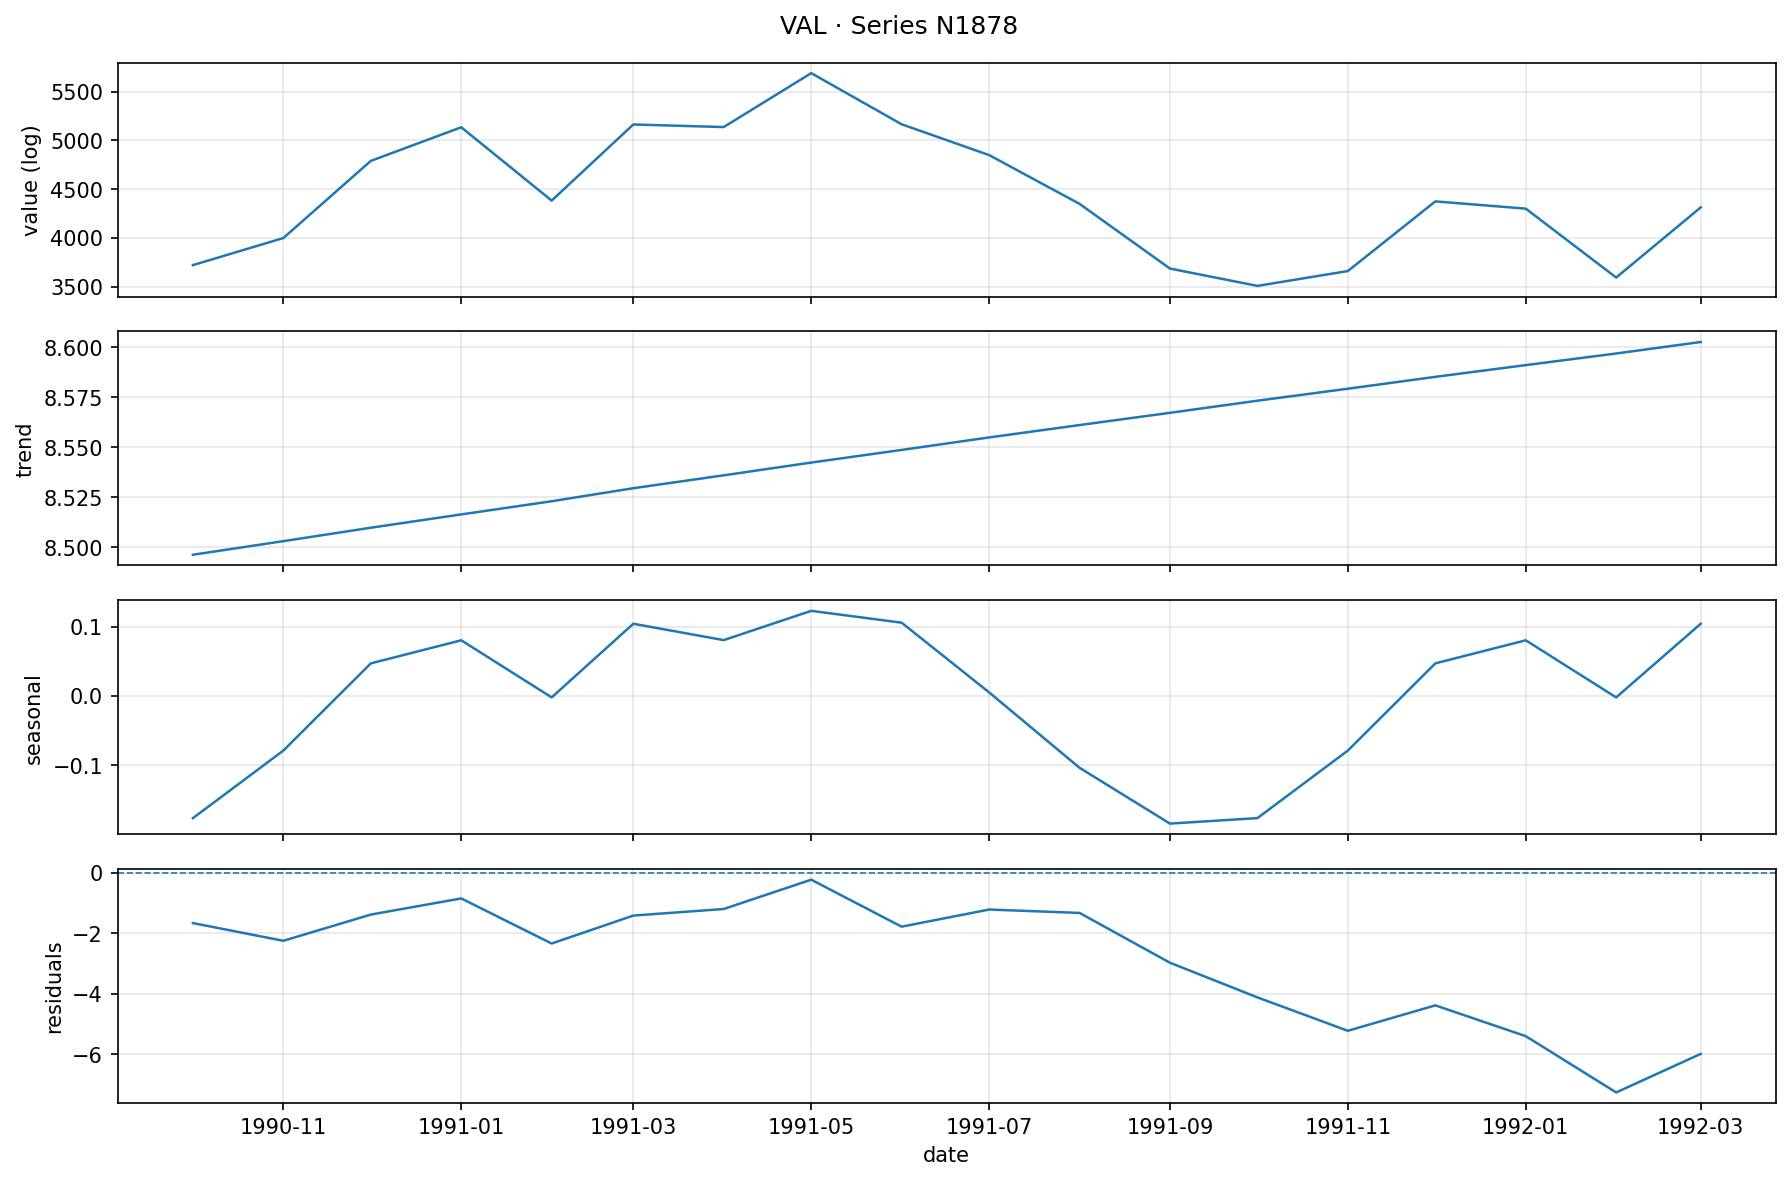
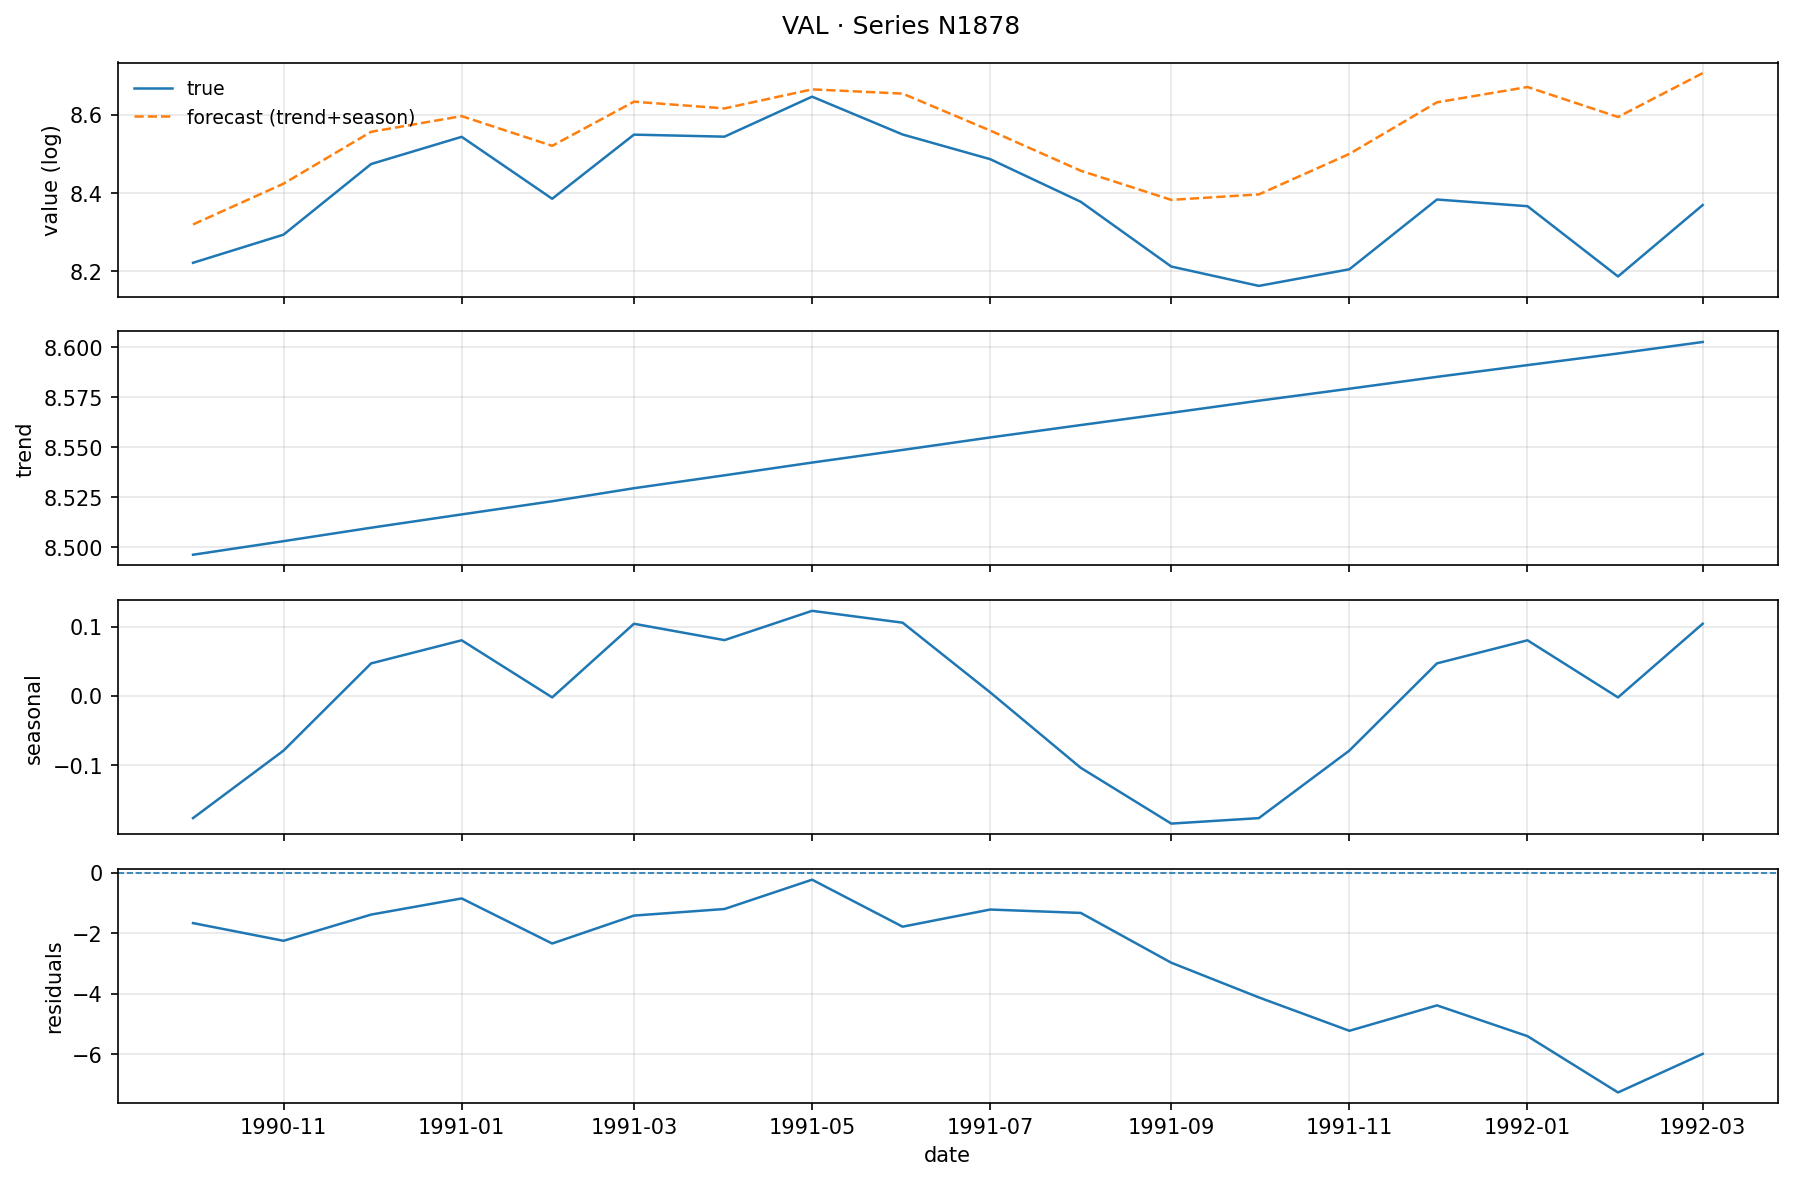
modified the plots in order to be observed the residuals

diff --git a/src/preprocess/plot_decomposition.py b/src/preprocess/plot_decomposition.py
@@ -1,6 +1,5 @@
 # src/plots/decomp_plotter.py
 from __future__ import annotations
-import os
 import re
 from pathlib import Path
 from typing import Iterable, Optional, Tuple
@@ -12,23 +11,23 @@ import matplotlib.pyplot as plt
 
 class DecompPlotter:
     """
-    Plot decomposition panels (value, trend, seasonal, residuals) for TRAIN/VAL/TEST.
-    - Expects per-split DataFrames with columns:
-        TRAIN: ['Series','date','value','trend','seasonal','residuals']
-        VAL/TEST: either ['Series','date','value','trend','seasonal','residuals']
-                  or      ['Series','date','value','trend_fc','seasonal','residuals']
-    - Saves one PNG per Series into:
-        src/results/STL           (method_label == 'STL')
-        src/results/additive      (method_label == 'stats_decompose_additive')
-        src/results/multiplicative(method_label == 'stats_decompose_multiplicative')
-      with subfolders train/, val/, test/
+    Plot decomposition panels (value, trend, seasonal, residuals) for TRAIN/VAL/TEST,
+    and overlay the continuation/reconstruction:
+      - STL/additive:   y_hat_log = trend(or trend_fc) + seasonal,  y_hat_lin = exp(y_hat_log)
+      - Multiplicative: y_hat     = trend(or trend_fc) * seasonal
+
+    For VAL/TEST this is the forecasted continuation; for TRAIN it's a reconstruction.
+
+    Expected columns:
+      TRAIN:    ['Series','date','value','trend','seasonal','residuals']
+      VAL/TEST: ['Series','date','value','trend_fc','seasonal','residuals'] (or 'trend' already)
     """
 
     def __init__(
         self,
         out_root: str = "src/results",
         dpi: int = 150,
-        figsize: Tuple[int, int] = (12, 8)
+        figsize: Tuple[int, int] = (12, 8),
     ):
         self.out_root = Path(out_root)
         self.dpi = dpi
@@ -53,14 +52,11 @@ class DecompPlotter:
         if test_df is not None:
             (base / "test").mkdir(parents=True, exist_ok=True)
 
-        # Decide which IDs to plot (intersection across provided splits)
         ids = self._choose_series_ids(train_df, val_df, test_df, series_ids, max_series)
-
         if len(ids) == 0:
             print("[DecompPlotter] No series IDs to plot.")
             return
 
-        # Plot each split
         self._plot_split(train_df, ids, base / "train", split_name="train", log_domain=log_domain)
         if val_df is not None:
             self._plot_split(val_df, ids, base / "val", split_name="val", log_domain=log_domain)
@@ -72,7 +68,6 @@ class DecompPlotter:
     # ---------- internals ----------
 
     def _method_dir(self, method_label: str) -> Path:
-        # Map to folder names
         if method_label == "STL":
             sub = "STL"
         elif method_label == "stats_decompose_additive":
@@ -80,7 +75,6 @@ class DecompPlotter:
         elif method_label == "stats_decompose_multiplicative":
             sub = "multiplicative"
         else:
-            # fallback: use label itself
             sub = re.sub(r"[^A-Za-z0-9_\-]+", "_", str(method_label)).strip("_")
         return self.out_root / sub
 
@@ -100,7 +94,6 @@ class DecompPlotter:
         if series_ids is not None:
             chosen = list(dict.fromkeys(map(str, series_ids)))
         else:
-            # start from TRAIN, then keep only those present in other splits (if supplied)
             chosen_set = ids_in(train_df)
             if val_df is not None:
                 chosen_set &= ids_in(val_df)
@@ -122,6 +115,14 @@ class DecompPlotter:
             return "trend_fc"
         raise KeyError("No 'trend' or 'trend_fc' column found for plotting.")
 
+    def _rmse(self, a: pd.Series | np.ndarray, b: pd.Series | np.ndarray) -> float:
+        a = np.asarray(a, dtype=float)
+        b = np.asarray(b, dtype=float)
+        m = np.isfinite(a) & np.isfinite(b)
+        if not m.any():
+            return np.inf
+        return float(np.sqrt(np.mean((a[m] - b[m]) ** 2)))
+
     def _plot_split(
         self,
         df: pd.DataFrame,
@@ -130,7 +131,6 @@ class DecompPlotter:
         split_name: str,
         log_domain: bool,
     ) -> None:
-        # basic checks
         needed = {"Series", "date", "seasonal", "residuals"}
         missing = needed - set(df.columns)
         if missing:
@@ -138,7 +138,6 @@ class DecompPlotter:
 
         trend_col = self._pick_trend_column(df)
 
-        # ensure datetime
         work = df.copy()
         work["date"] = pd.to_datetime(work["date"], errors="coerce")
         work = work.dropna(subset=["Series", "date"])
@@ -148,32 +147,86 @@ class DecompPlotter:
             if sub.empty:
                 continue
 
-            # Drop rows with all-NaN on the plotted components to avoid blank panels
-            # (value may be missing in some edge cases; handle gracefully)
             have_value = "value" in sub.columns
-            cols = ["seasonal", trend_col, "residuals"] + (["value"] if have_value else [])
-            valid_mask = ~sub[cols].isna().all(axis=1)
+
+            # --- Continuation candidates ---
+            # For log-domain methods we can reconstruct in log (trend+seasonal) or convert to linear (exp).
+            if log_domain:
+                yhat_log = pd.to_numeric(sub[trend_col], errors="coerce") + pd.to_numeric(sub["seasonal"], errors="coerce")
+                with np.errstate(over="ignore", invalid="ignore"):
+                    yhat_lin = np.exp(yhat_log)
+            else:
+                tr = pd.to_numeric(sub[trend_col], errors="coerce")
+                se = pd.to_numeric(sub["seasonal"], errors="coerce")
+                yhat_lin = tr * se
+                yhat_log = None  # not used
+
+            # --- Choose plotting domain for Panel 1 automatically to avoid double-logging on TRAIN ---
+            if have_value:
+                v = pd.to_numeric(sub["value"], errors="coerce")
+
+                if log_domain:
+                    # Compare log(v) vs yhat_log  *and*  v vs yhat_lin; choose smaller RMSE.
+                    with np.errstate(divide="ignore", invalid="ignore"):
+                        v_log = np.log(v)
+                    rmse_log = self._rmse(v_log, yhat_log)
+                    rmse_lin = self._rmse(v, yhat_lin)
+
+                    if rmse_log <= rmse_lin:
+                        y_true = v_log
+                        y_hat = yhat_log
+                        val_label = "value (log)"
+                    else:
+                        y_true = v
+                        y_hat = yhat_lin
+                        val_label = "value"
+                else:
+                    y_true = v
+                    y_hat = yhat_lin
+                    val_label = "value"
+            else:
+                # No ground-truth values available; show forecast in a natural viewing domain.
+                if log_domain:
+                    y_true = None
+                    y_hat = yhat_lin  # linear scale is more interpretable
+                    val_label = "value"
+                else:
+                    y_true = None
+                    y_hat = yhat_lin
+                    val_label = "value"
+
+            # Drop rows with all-NaN across plotted components
+            cols_to_check = ["seasonal", trend_col, "residuals"]
+            if have_value:
+                cols_to_check.append("value")
+            valid_mask = ~sub[cols_to_check].isna().all(axis=1)
             sub = sub.loc[valid_mask]
+            y_hat = pd.Series(y_hat, index=sub.index).loc[valid_mask]
+            if y_true is not None:
+                y_true = pd.Series(y_true, index=sub.index).loc[valid_mask]
+
             if sub.empty:
                 continue
 
-            # Build figure
+            # ---- Figure ----
             fig, axes = plt.subplots(nrows=4, ncols=1, figsize=self.figsize, sharex=True)
             ax_idx = 0
 
-            # Panel 1: Original value (if present)
-            if have_value:
-                axes[ax_idx].plot(sub["date"], sub["value"], lw=1.2)
-                axes[ax_idx].set_ylabel("value" + (" (log)" if log_domain else ""))
-                axes[ax_idx].grid(True, alpha=0.3)
-                ax_idx += 1
+            # Panel 1: True vs Forecasted continuation/reconstruction
+            if y_true is not None:
+                axes[ax_idx].plot(sub["date"], y_true, lw=1.2, label="true")
+                axes[ax_idx].plot(sub["date"], y_hat, lw=1.2, ls="--",
+                                  label=("forecast (trend+season)" if log_domain else "forecast (trend×season)"))
+                axes[ax_idx].legend(loc="upper left", fontsize=9, frameon=False)
             else:
-                # if no original value, leave an empty panel with message
-                axes[ax_idx].text(0.5, 0.5, "value not provided", ha="center", va="center", transform=axes[ax_idx].transAxes)
-                axes[ax_idx].set_axis_off()
-                ax_idx += 1
+                axes[ax_idx].plot(sub["date"], y_hat, lw=1.2, ls="--",
+                                  label=("forecast (trend+season)" if log_domain else "forecast (trend×season)"))
+                axes[ax_idx].legend(loc="upper left", fontsize=9, frameon=False)
+            axes[ax_idx].set_ylabel(val_label)
+            axes[ax_idx].grid(True, alpha=0.3)
+            ax_idx += 1
 
-            # Panel 2: Trend
+            # Panel 2: Trend / Trend forecast
             axes[ax_idx].plot(sub["date"], sub[trend_col], lw=1.2)
             axes[ax_idx].set_ylabel("trend" if trend_col == "trend" else "trend_fc")
             axes[ax_idx].grid(True, alpha=0.3)
@@ -195,7 +248,6 @@ class DecompPlotter:
             axes[-1].set_xlabel("date")
             fig.tight_layout()
 
-            # save
             out_path = out_dir / f"{split_name}_{self._safe_name(sid)}.png"
             fig.savefig(out_path, dpi=self.dpi, bbox_inches="tight")
             plt.close(fig)

diff --git a/src/preprocess/holdout_decomposer_per_id.py b/src/preprocess/holdout_decomposer_per_id.py
@@ -1,7 +1,7 @@
 import pandas as pd
 import numpy as np
 from typing import Literal
-from statsmodels.tsa.holtwinters import ExponentialSmoothing 
+from statsmodels.tsa.holtwinters import ExponentialSmoothing
 
 Method = Literal["STL", "stats_decompose_additive", "stats_decompose_multiplicative"]
 
@@ -16,7 +16,6 @@ class HoldoutDecomposer:
         self.train_decomp["date"] = pd.to_datetime(self.train_decomp["date"], errors="coerce")
         self.train_decomp = self.train_decomp.dropna(subset=["Series", "date"])
 
-        # build per-ID seasonal template once
         self._seas_tpl = self._build_seasonal_template(self.train_decomp, method=self.method, period=self.period)
 
     @staticmethod
@@ -49,12 +48,17 @@ class HoldoutDecomposer:
             pivot = pivot.subtract(pivot.mean(axis=1), axis=0)
         return pivot.stack().rename("season_tpl").reset_index()
 
-    def _forecast_trend_for(self, target_df: pd.DataFrame) -> pd.DataFrame:
+    def _forecast_trend_for(self, target_df: pd.DataFrame,
+                            offset_by_id: dict[str, int] | None = None) -> pd.DataFrame:
         out = []
         for sid, tr in self.train_decomp.groupby("Series", sort=False):
             horizon = int((target_df["Series"] == sid).sum())
             if horizon == 0:
                 continue
+
+            # number of steps between end of TRAIN and the first target date for this ID
+            offs = 0 if offset_by_id is None else int(offset_by_id.get(sid, 0))
+
             y_trend = pd.to_numeric(tr["trend"], errors="coerce").dropna().to_numpy()
             if y_trend.size == 0:
                 fc = np.zeros(horizon)
@@ -62,13 +66,17 @@ class HoldoutDecomposer:
                 try:
                     model = ExponentialSmoothing(y_trend, trend="add", seasonal=None, damped_trend=True)
                     fit = model.fit(optimized=True)
-                    fc = fit.forecast(horizon)
+                    fc_all = fit.forecast(offs + horizon)   # forecast far enough
+                    fc = fc_all[offs:]                      # drop the offset part to align with target dates
                 except Exception:
                     fc = np.full(horizon, float(y_trend[-1]))
+
             if self.method == "stats_decompose_multiplicative":
                 fc = np.maximum(fc, 1e-12)
+
             t_dates = target_df.loc[target_df["Series"] == sid, "date"].values
             out.append(pd.DataFrame({"Series": sid, "date": t_dates, "trend_fc": fc}))
+
         return pd.concat(out, ignore_index=True) if out else pd.DataFrame(columns=["Series", "date", "trend_fc"])
 
     def _apply_per_id_z(self, residuals_df: pd.DataFrame) -> pd.DataFrame:
@@ -79,13 +87,15 @@ class HoldoutDecomposer:
         out.loc[valid, "residuals"] = (out.loc[valid, "residuals"] - out.loc[valid, "mu"]) / out.loc[valid, "sigma"]
         return out.drop(columns=["mu", "sigma"])
 
-    def transform(self, target_df: pd.DataFrame, harmonics: int = 3):
+    def transform(self, target_df: pd.DataFrame, harmonics: int = 3,
+                  offset_by_id: dict[str, int] | None = None):
         df = target_df.copy()
         df["date"] = pd.to_datetime(df["date"], errors="coerce")
         df = df.dropna(subset=["Series", "date", "value"]).sort_values(["Series", "date"])
         df["phase"] = self._phase(df["date"], self.period)
-        df = df.merge(self._seas_tpl, on=["Series", "phase"], how="left")          # per-ID seasonal
-        df = df.merge(self._forecast_trend_for(df), on=["Series", "date"], how="left")  # per-ID trend
+        df = df.merge(self._seas_tpl, on=["Series", "phase"], how="left")  # per-ID seasonal
+        df = df.merge(self._forecast_trend_for(df, offset_by_id=offset_by_id),
+                      on=["Series", "date"], how="left")                   # per-ID trend (aligned)
 
         if self.method in ("STL", "stats_decompose_additive"):
             if (df["value"] <= 0).any():

diff --git a/src/preprocess/main_preprocess.py b/src/preprocess/main_preprocess.py
@@ -83,20 +83,27 @@ def main():
         period=12,
     )
 
-    val_full, val_trend, val_seasonal, val_residuals = hd_decomposer.transform(val, harmonics=3)
+    val_full, val_trend, val_seasonal, val_residuals = hd_decomposer.transform(val, harmonics=3, offset_by_id=None)
     val_trend.to_csv(f"data/preprocessed/{decomposer.decomp_type}/val/trend.csv", index=False)
     val_seasonal.to_csv(f"data/preprocessed/{decomposer.decomp_type}/val/seasonal.csv", index=False)
     val_residuals.to_csv(f"data/preprocessed/{decomposer.decomp_type}/val/residuals.csv", index=False)
 
-    test_full, test_trend, test_seasonal, test_residuals = hd_decomposer.transform(test, harmonics=3)
+    val_len_by_id = val.groupby("Series").size().to_dict()
+    test_full, test_trend, test_seasonal, test_residuals = hd_decomposer.transform(test, harmonics=3,  offset_by_id=val_len_by_id)
     test_trend.to_csv(f"data/preprocessed/{decomposer.decomp_type}/test/trend.csv", index=False)
     test_seasonal.to_csv(f"data/preprocessed/{decomposer.decomp_type}/test/seasonal.csv", index=False)
     test_residuals.to_csv(f"data/preprocessed/{decomposer.decomp_type}/test/residuals.csv", index=False)
 
     train_plot = (
-        decomp_train[["Series","date","value","trend","seasonal"]]  
-        .merge(train_residuals[["Series","date","residuals"]],      
-            on=["Series","date"], how="left", validate="one_to_one")
+        train[["Series","date","value"]]  # raw (linear) value
+        .merge(
+            decomp_train[["Series","date","trend","seasonal"]],
+            on=["Series","date"], how="left", validate="one_to_one"
+        )
+        .merge(
+            train_residuals[["Series","date","residuals"]],
+            on=["Series","date"], how="left", validate="one_to_one"
+        )
         [["Series","date","value","trend","seasonal","residuals"]]
     )
 
